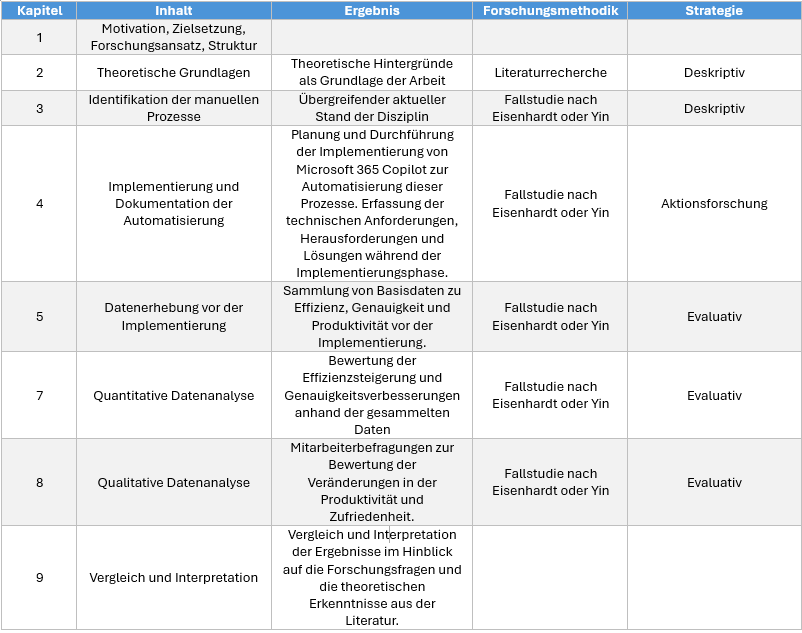
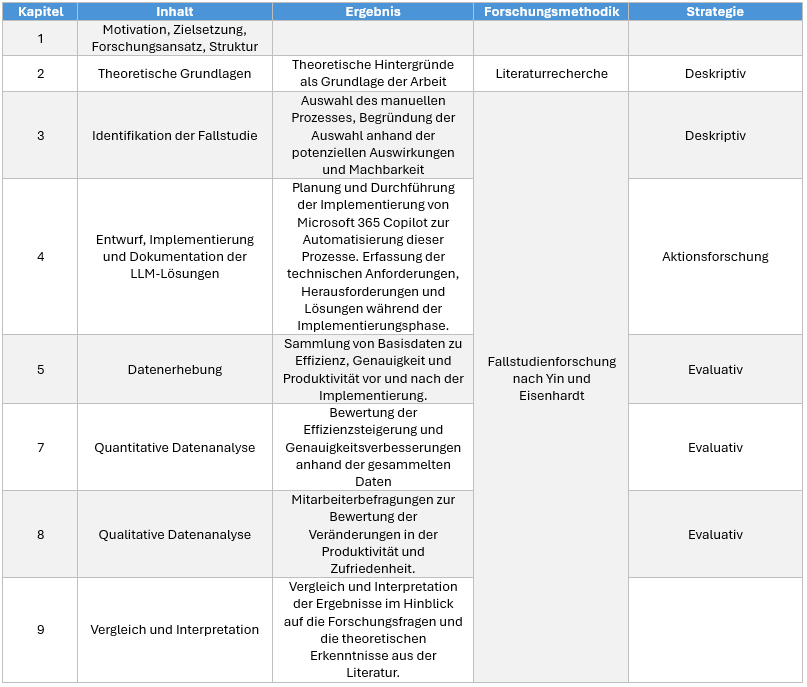
Add Gliederung & change Methodik

diff --git a/gliederung.tex b/gliederung.tex
@@ -3,4 +3,90 @@
 \section{Vorläufige Gliederung der Bachelor-Thesis}
 
 
+\begin{longtable}{|p{6cm}|p{6cm}|}
+    \hline
+    \textbf{Kapitel} & \textbf{Seitenanzahl} \\
+    \hline
+    I.      Abbildungsverzeichnis \\
+    \hline
+    II.     Abkürzungsverzeichnis \\
+    \hline
+    III.    Formelverzeichnis\\
+    \hline
+    IV.     Tabellenverzeichnis\\
+    \hline
+    1.  Abstract & \textbf{1 Seite} \\
+    \hline
+    2.  Einleitung & \textbf{5 Seiten} \\
+    \hline
+        2.1. Motivation & 1 Seite \\
+        \hline
+        2.2. Problemstellung und Zielsetzung & 1 Seite \\
+        \hline
+        2.3. Forschungsfragen und Methodik & 2 Seite \\
+        \hline
+        2.4. Aufbau der Arbeit & 1 Seite \\
+    \hline
+    3.  Theoretische Grundlagen & \textbf{7 Seiten} \\
+    \hline
+        3.1. Grundlagen von Business Intelligence & 1 Seite \\
+        \hline
+        3.2. Einführung in Large Language Models & 2 Seiten \\
+        \hline
+        3.3. Relevanz und Potential von LLM in BI & 2 Seiten \\
+        \hline
+        3.4. Überblick über Microsoft 365 Copilot und änliche Technologien & 2 Seiten \\
+    \hline
+    4. Aktueller Forschungsstand & \textbf{6 Seiten} \\
+    \hline
+        4.1. Systematische Literaturrecherche & 2 Seiten \\
+        \hline
+        4.2. Darstellung relevanter wissenschaftlicher Arbeiten & 2 Seiten \\
+        \hline
+        4.3. Aktuelle Herausforderungen und Forschungslücken & 2 Seiten \\
+    \hline
+    5. Fallstudienanalyse & \textbf{8 Seiten} \\
+    \hline
+        5.1. Beschreibung des Unternehmens und der Abteilung & 2 Seiten \\
+        \hline
+        5.2. Identifikation und Beschreibung manueller Prozesse & 2 Seiten \\
+        \hline
+        5.3. Implementierung von Microsoft 365 Copilot & 2 Seiten \\
+        \hline
+        5.4. Dokumentation & 2 Seiten \\
+    \hline
+    6. Empirische Untersuchung & \textbf{8 Seiten} \\
+    \hline
+        6.1. Datenerhebung vor und nach der Implementierung & 2 Seiten \\
+        \hline
+        6.2. Quantitative und qualitative Datenanalyse & 2 Seiten \\
+        \hline
+        6.3. Vergleich der Ergebnisse & 2 Seiten \\
+        \hline
+        6.4. interpretation der Ergebnisse im Kontext der Forschungsfragen & 2 Seiten \\
+    \hline
+    7. Diskussion der Ergebnisse& \textbf{5 Seiten} \\
+    \hline
+        7.1. Zusammenfassen der wesentlichen Ergebnisse & 2 Seiten \\
+        \hline
+        7.2. Diskussion der Auswirkungen auf Effizienz, Genauigkeit und Produktivität & 2 Seiten \\
+        \hline
+        7.3. Bewertung der Herausforderungen und Grenzen der Implementierung & 1 Seite \\
+    \hline
+    8. Fazit und Ausblick & \textbf{3 Seiten} \\
+    \hline
+        8.1. Zusammenfassung der Arbeit und der wichtigsten Erkenntnisse & 1 Seite \\
+        \hline
+        8.2. Implikationen für die Praxis & 1 Seite \\
+        \hline
+        8.3. Ausblick auf weiterführende Forschung & 1 Seite \\
+    \hline
+    V. Literaturverzeichnis \\
+    \hline
+    VI. Anhang \\
+    \caption{Gliederung der Bachelor-Thesis} \label{tab:gliederung} \\
+\end{longtable}
+
+
+
 \clearpage

diff --git a/methodik.tex b/methodik.tex
@@ -2,6 +2,8 @@
 
 \section{Methodik der Thesis}
 
+Die Methodik dieser Bachelorarbeit basiert auf einer Kombination aus Literaturrecherche, Fallstudienanalyse und empirischen Untersuchungen. Diese Methodenkombination ermöglicht es, ein fundiertes theoretisches Fundament zu legen und gleichzeitig praktische Einblicke und Daten zu gewinnen, um die Forschungsfragen zu beantworten.
+
 \begin{figure}[H]
     \centering
     \includegraphics[scale=0.6]{methodik}
@@ -9,4 +11,10 @@
     \caption{Aufbau und Struktur der Bachelorthesis mit Forschungsmethodik}
     \label{fig:methodik}
 \end{figure}
+
+Die Methodik der Fallstudienforschung basiert auf bewährten Ansätzen, wie sie von Yin\footnote{Vgl. \cite{Yin2017}} und Eisenhardt\footnote{Vgl. \cite{Eisenhardt1989}} beschrieben wurden. Yin bietet einen umfassenden Leitfaden zur Durchführung von Fallstudien, einschließlich der Fallauswahl, Datenerhebung und Datenanalyse. Eisenhardt ergänzt diesen Ansatz durch ihre Methoden zur Theorieentwicklung aus Fallstudien. Der in dieser Arbeit verwendete Ablauf orientiert sich an diesen etablierten Methoden.
+
+Die Methodik der Literaturrecherche basiert auf dem Ansatz von Aveyard\footnote{Vgl. \cite{Aveyard2018}} und wurde bereits begonnen.
+
+
 \clearpage

diff --git a/main.tex b/main.tex
@@ -4,6 +4,8 @@
 \usepackage[T1]{fontenc}
 \usepackage[english, german]{babel}
 \usepackage{fancyhdr} %Kopf und Fußzeile
+\usepackage{geometry}
+\usepackage{longtable}
 \usepackage{graphicx}
 \usepackage{enumitem}
 \usepackage{calc} 
